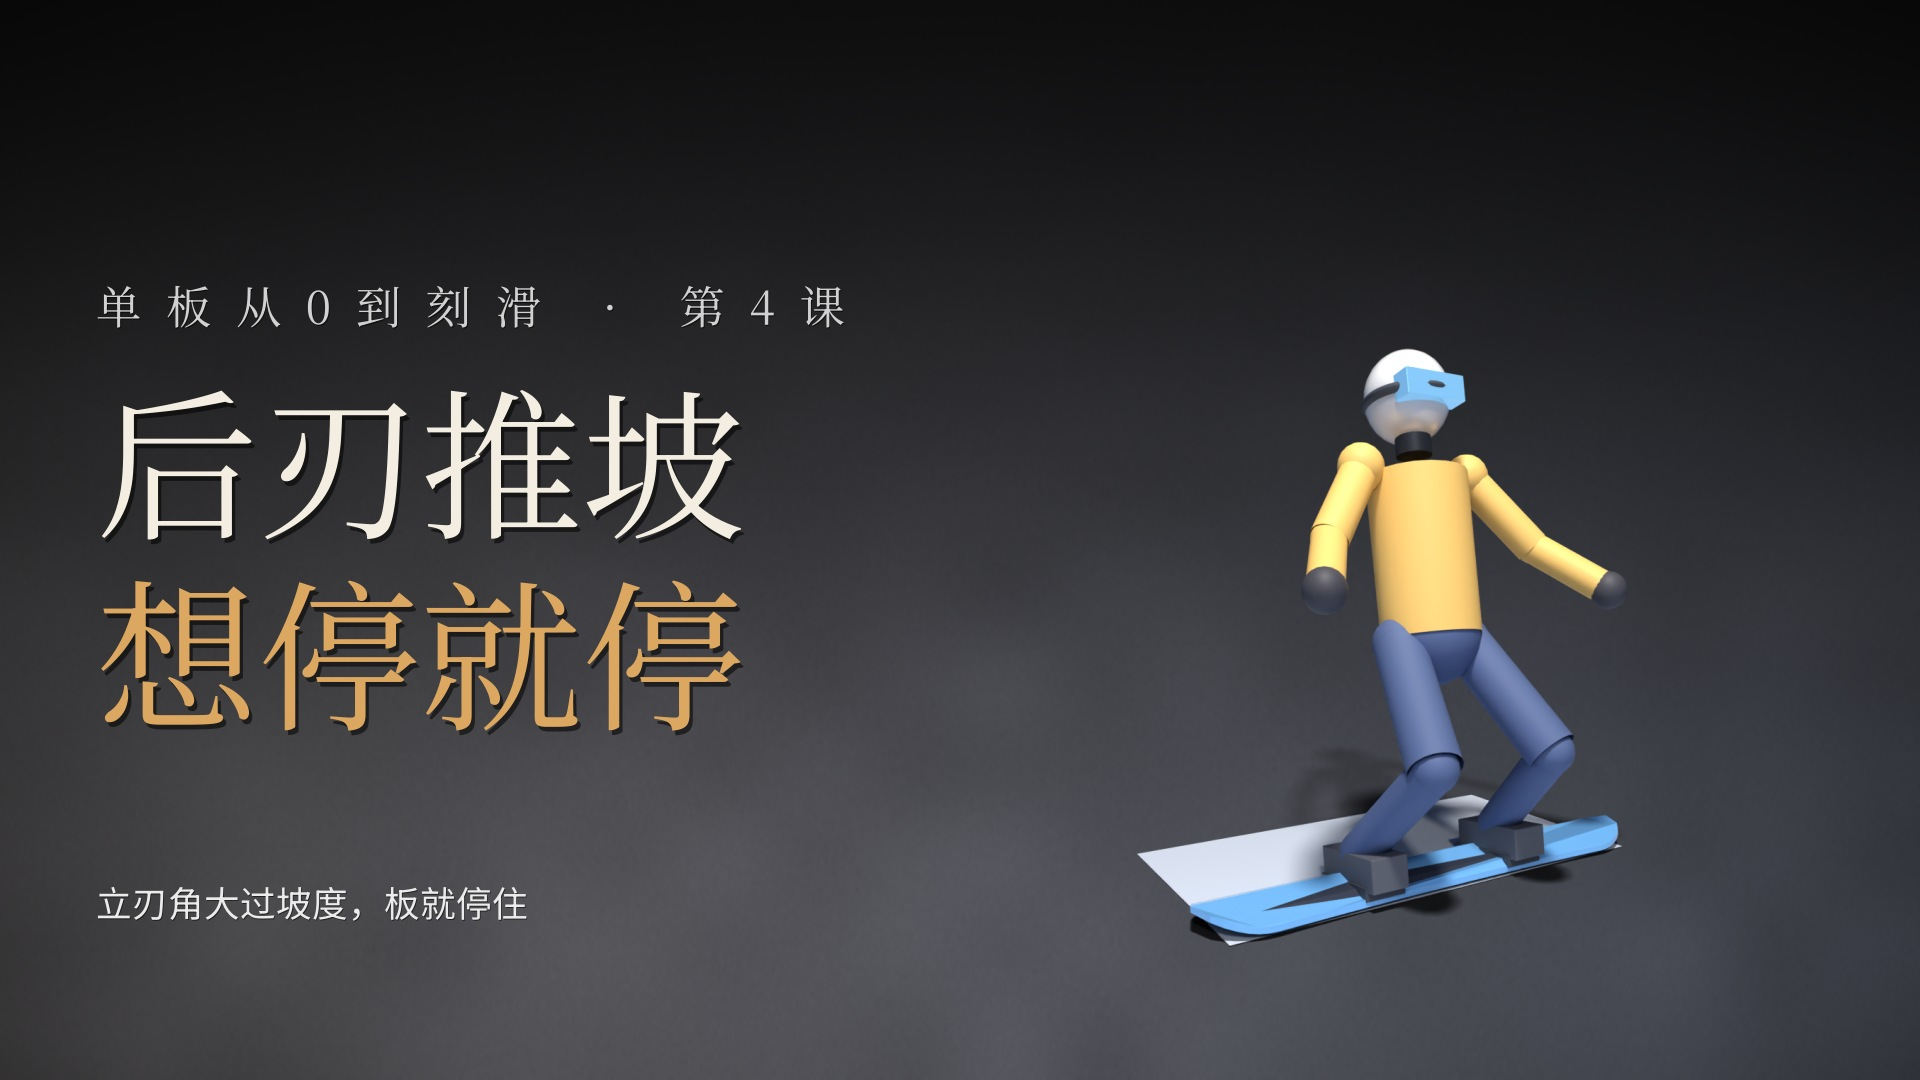
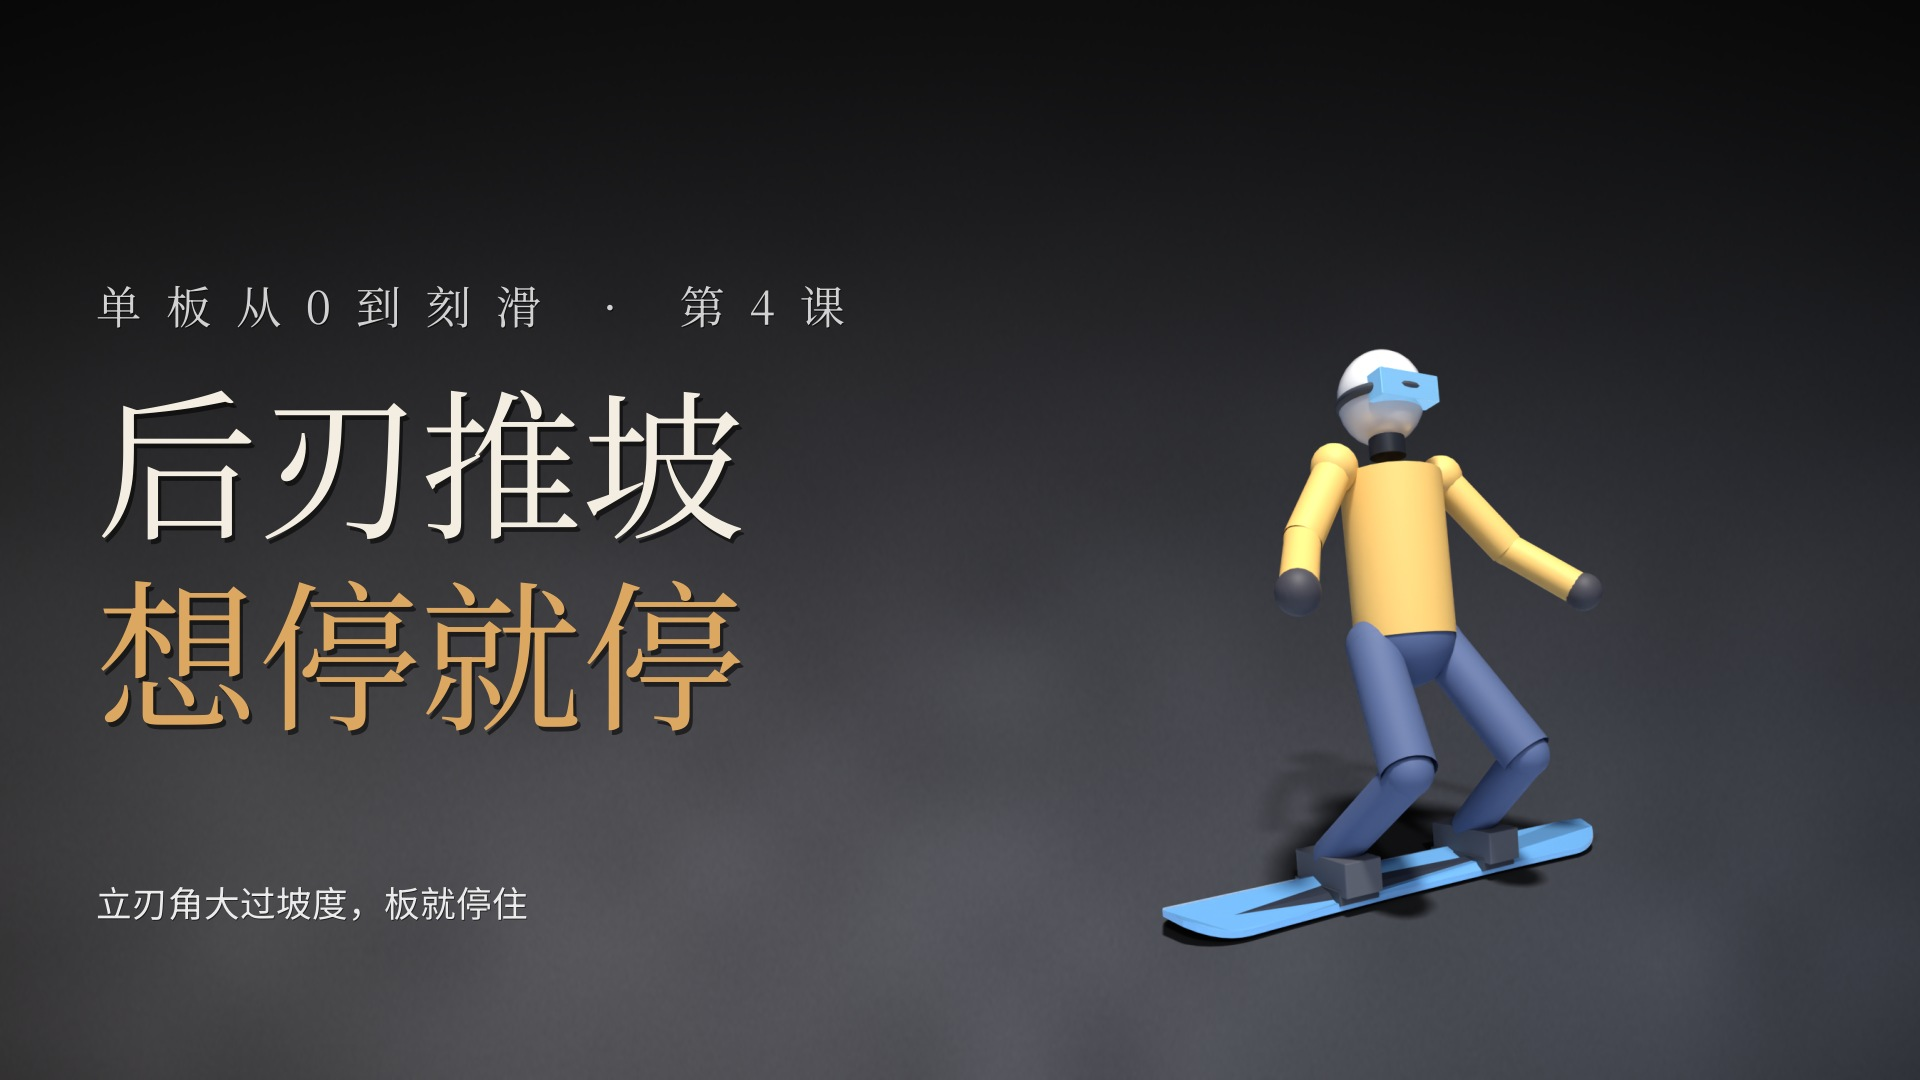
第4课封面去掉雪痕
Claude-Session: https://claude.ai/code/session_011nxU6Xqnvk7sEPthDPKna4

Changed region(s): [[0.5938, 0.3056, 0.8438, 0.8861]]

diff --git a/video/zero2carve-lib/cover3d.py b/video/zero2carve-lib/cover3d.py
@@ -11,7 +11,7 @@ out = sys.argv[2]
 C = ep.COVER3D
 S = Scene(1200, 1200, samples=int(os.environ.get("SAMPLES", 24)), transparent=True)
 P = interp(ep.PERF[C["perf"]], C["p"])
-P["slope"] = 0.0                     # 封面不要坡，人物摆正
+P["slope"] = 0.0; P["trail"] = 0.0      # 封面不要坡和雪痕，人物摆正
 J = S.place(P)
 g = Vector((P["gx"], 0, 0))
 pos, tgt, lens = C["cam"]
